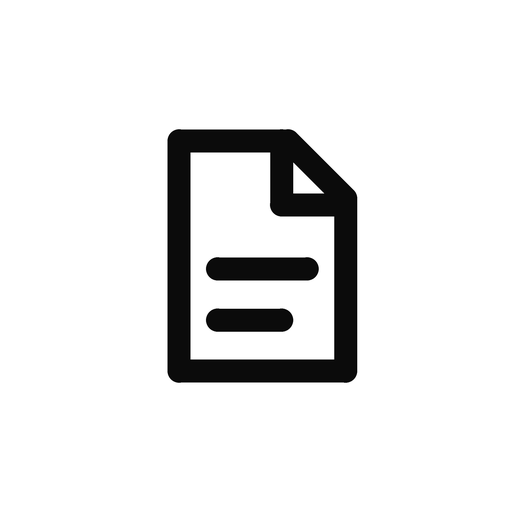
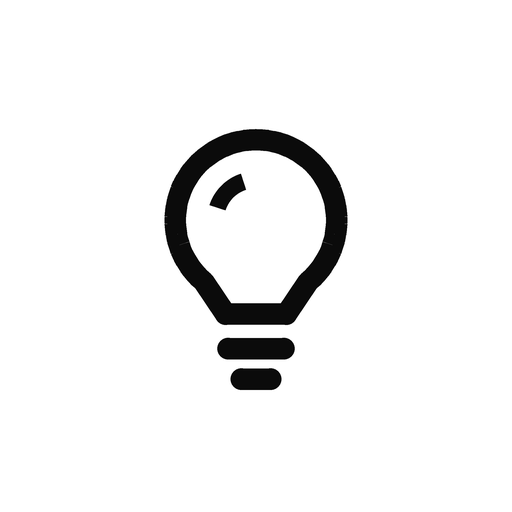
Ícone de lâmpada
Claude-Session: https://claude.ai/code/session_018xK15feYLqgjkdUUoTKF4Z

Changed region(s): [[0.3125, 0.25, 0.7188, 0.7812], [0.625, 0.3125, 0.6562, 0.3438]]

diff --git a/sw.js b/sw.js
@@ -1,6 +1,6 @@
 // Guarda o app no aparelho para abrir rápido e funcionar sem internet.
 // Ao abrir, mostra a versão guardada e busca a mais nova em segundo plano.
-const CACHE = 'notas-v3';
+const CACHE = 'notas-v4';
 const SHELL = ['./', 'index.html', 'manifest.webmanifest', 'icon-192.png', 'icon-512.png', 'apple-touch-icon.png'];
 self.addEventListener('install', e => {
   e.waitUntil(caches.open(CACHE).then(c => c.addAll(SHELL)));
